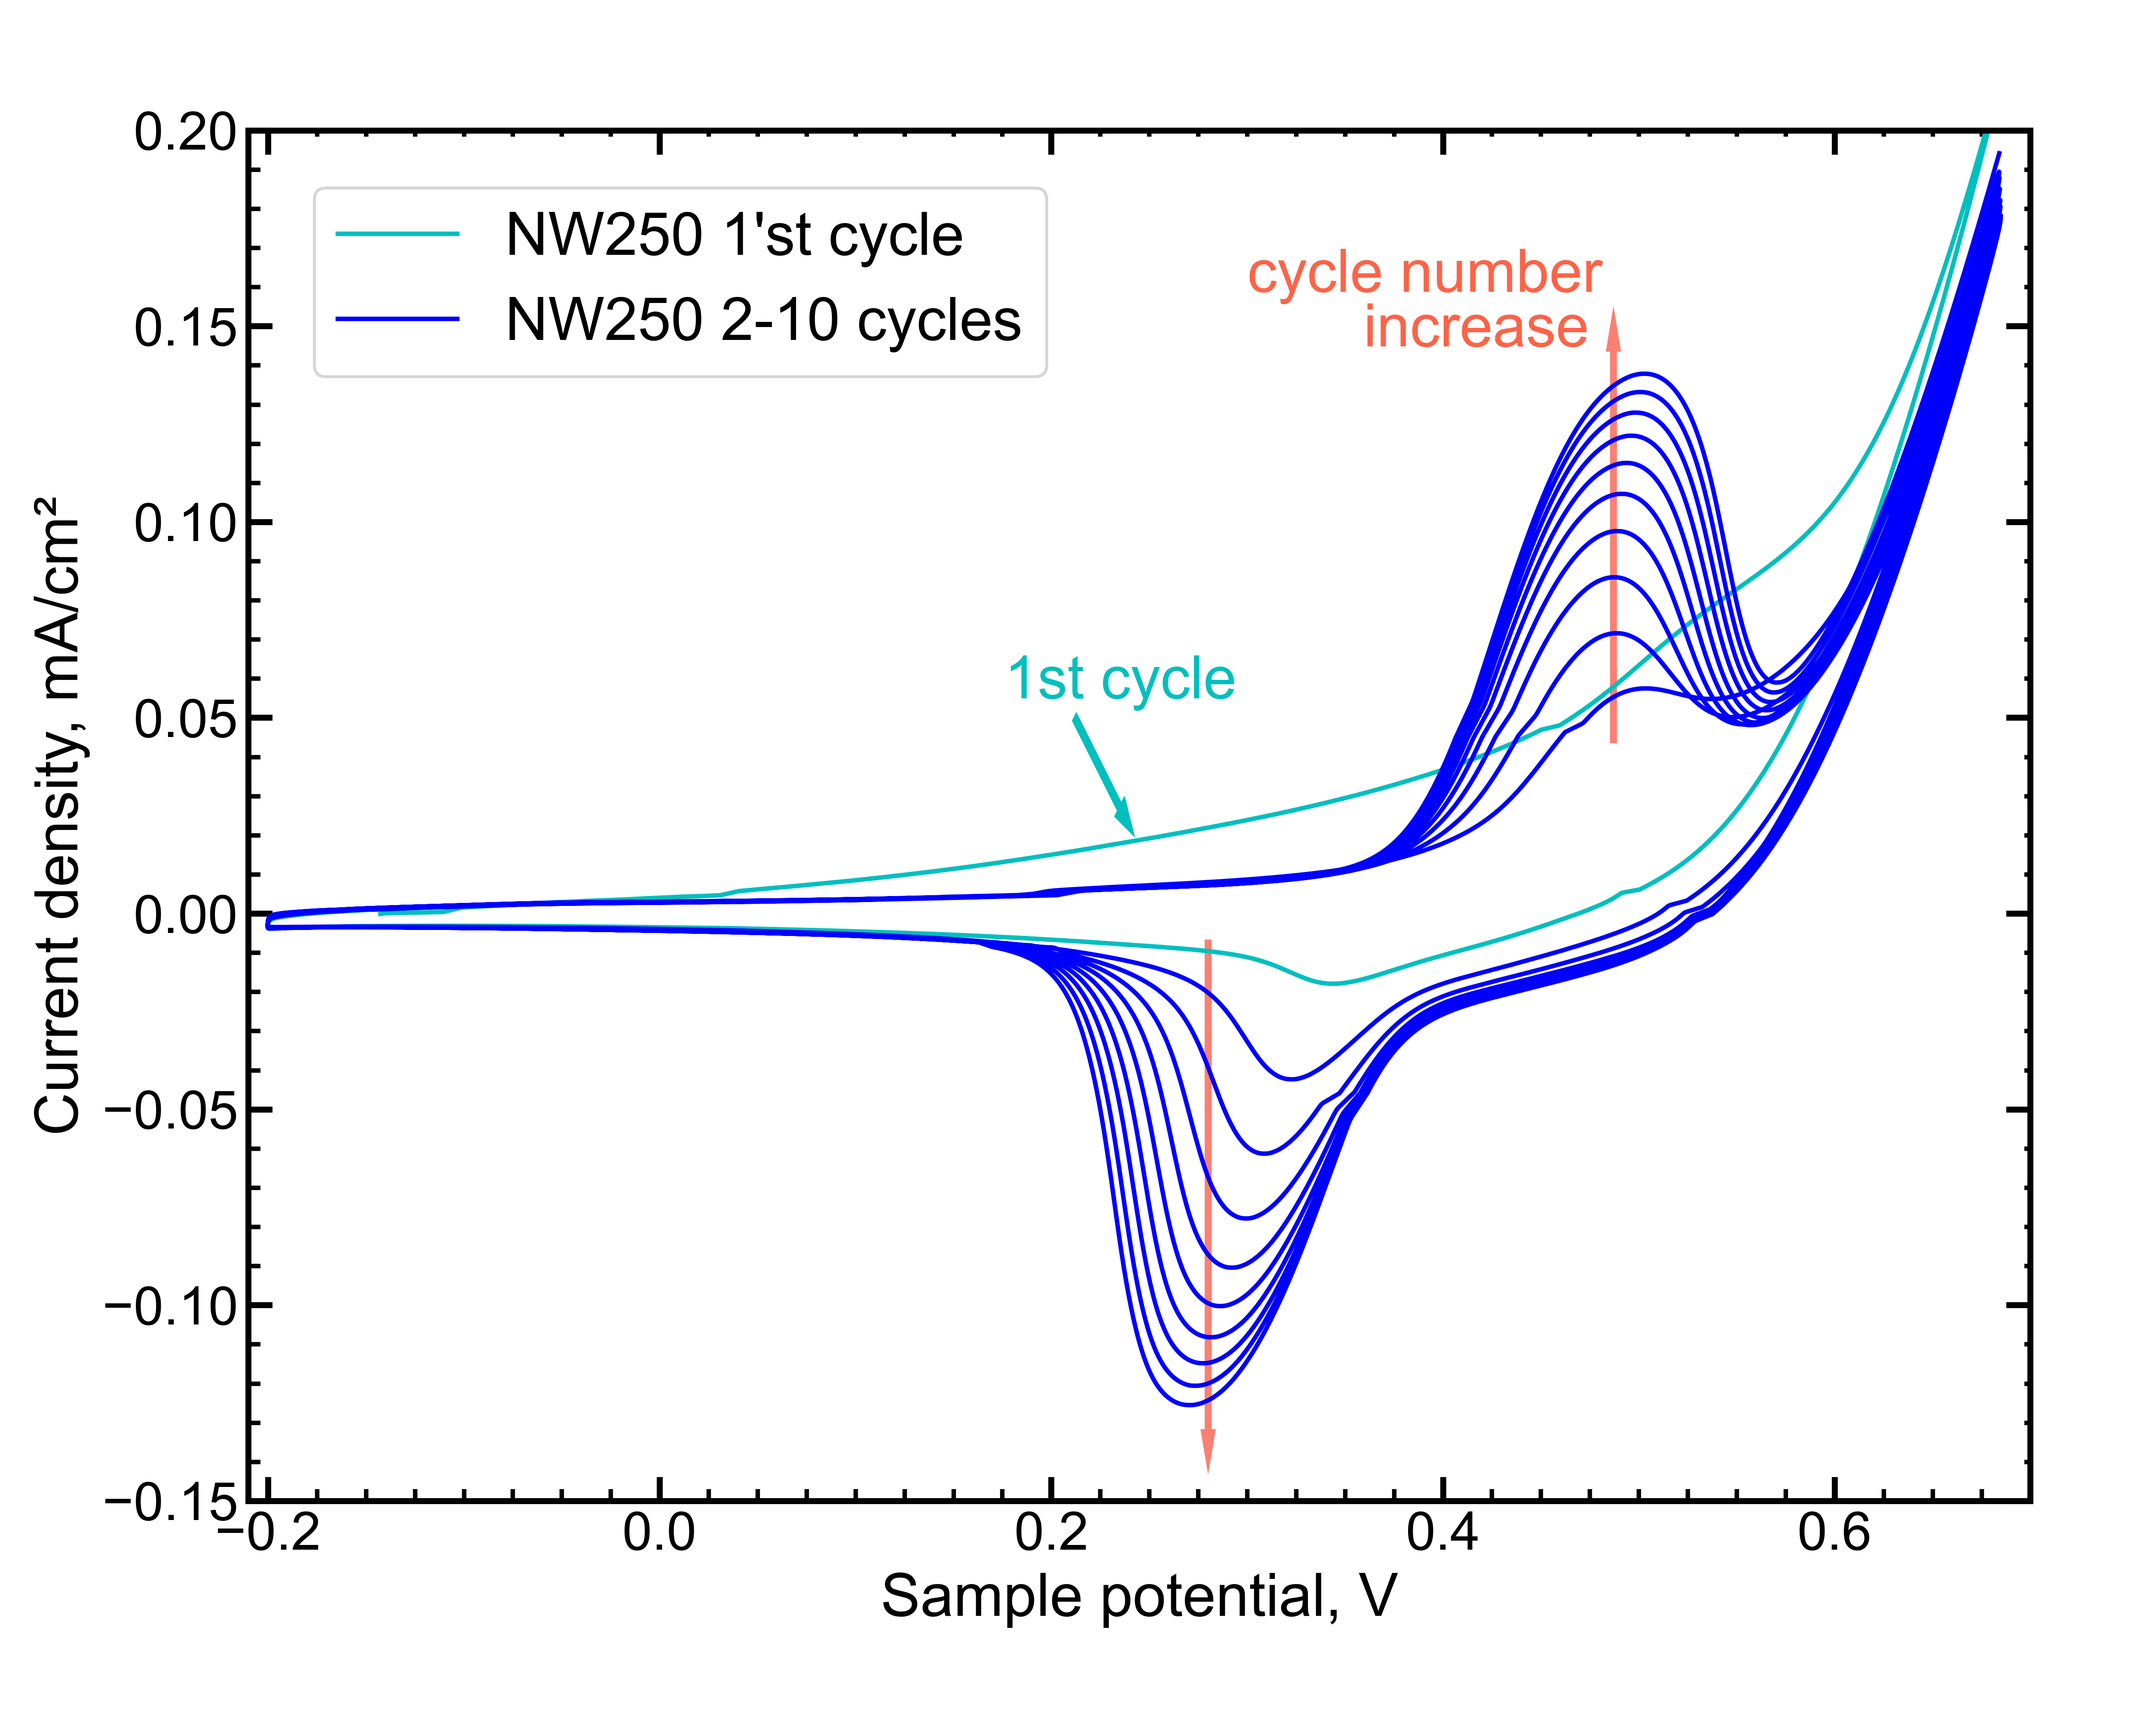
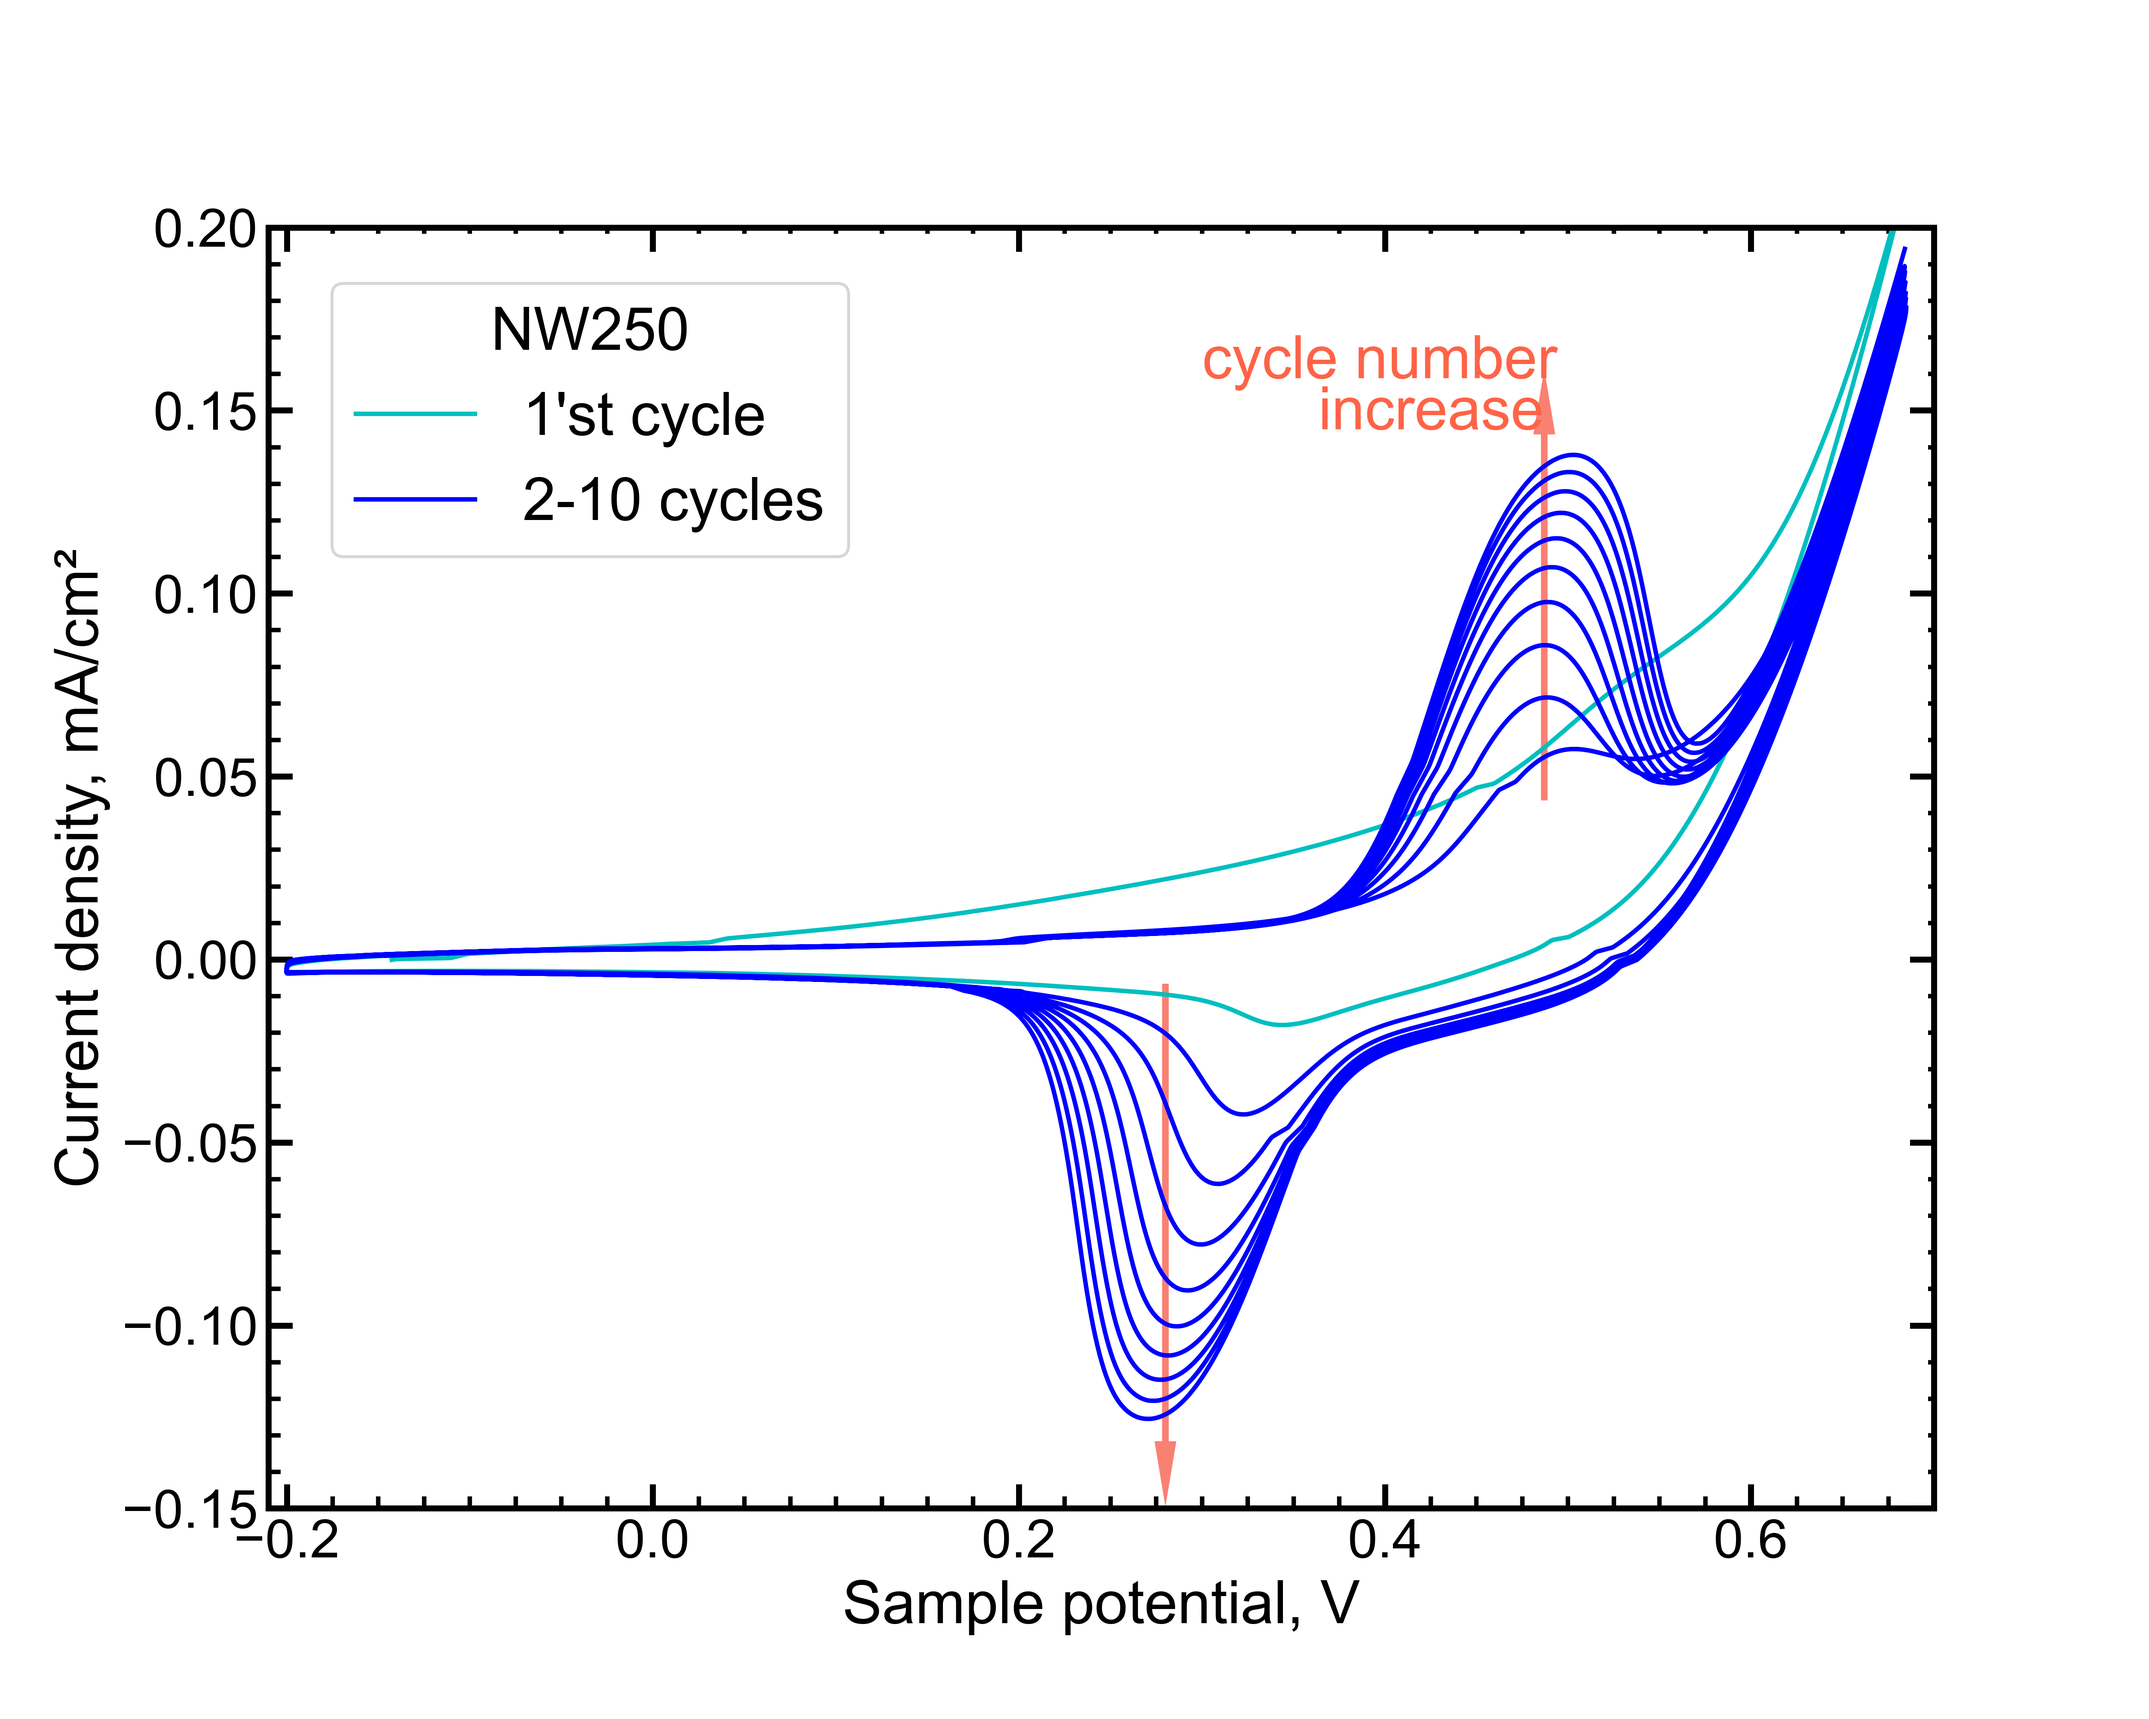
поправил легенду, убрал ненужную стрелку, поправил размеры указателей стрелок

diff --git a/Скрипты/CV-099-first10.py b/Скрипты/CV-099-first10.py
@@ -17,16 +17,18 @@ per_cycle = 1800
 s1 = per_cycle * 1
 s2 = per_cycle * 11
 current = list(map(lambda x: 1000 * x / 5, sample.current))
-line1, = ax.plot(sample.voltage[:s1], current[:s1], 'c-', label="NW700 1'st cycle")
-line2, = ax.plot(sample.voltage[s1:], current[s1:], 'b-', label="NW700 2-10 cycles")
+line1, = ax.plot(sample.voltage[:s1], current[:s1], 'c-', label="1'st cycle")
+line2, = ax.plot(sample.voltage[s1:], current[s1:], 'b-', label="2-10 cycles")
 
-arrow = ax.arrow(0.487, 0.2, 0, 0.35, width=0.002, color="salmon")
-arrow2 = ax.arrow(0.280, -0.007, 0, -0.47, width=0.002, color="salmon")
+# Изменение параметров стрелок
+arrow = ax.arrow(0.487, 0.2, 0, 0.35, width=0.002, head_length=0.05, head_width=0.01, color="salmon")
+arrow2 = ax.arrow(0.280, -0.007, 0, -0.44, width=0.002, head_length=0.05, head_width=0.01, color="salmon")
+
 plt.annotate("cycle number", (0.3, 0.57), (0.3, 0.57), color="tomato", fontsize=20)
 plt.annotate("      increase", (0.3, 0.57), (0.3, 0.52), color="tomato", fontsize=20)
 
-arrow3 = ax.arrow(0.212, 0.14, 0.023, -0.023, width=0.002, color="c")
-plt.annotate("1st cycle", (0.176, 0.15), (0.176, 0.15), color="c", fontsize=20)
+# arrow3 = ax.arrow(0.212, 0.14, 0.023, -0.023, width=0.002, color="c")
+# plt.annotate("1st cycle", (0.176, 0.15), (0.176, 0.15), color="c", fontsize=20)
 
 ax.set_aspect(0.5)
 #ax.set_title("Sample 099")
@@ -41,8 +43,10 @@ for spine in ax.spines.values():
 # Увеличение толщины тиков
 ax.tick_params(axis="both", direction="in", length=8, labelsize=18, width=2)
 
-# Добавление легенды с небольшим смещением от верхнего левого угла
-ax.legend(fontsize='20', loc='upper left', bbox_to_anchor=(0.02, 0.98))
+# Добавление легенды с заголовком
+legend = ax.legend(fontsize='20', loc='upper left', bbox_to_anchor=(0.02, 0.98))
+plt.setp(legend.get_title(), fontsize='20', color='black')
+legend.set_title("NW700")
 
 ax2 = ax.secondary_yaxis("right")
 ax2.tick_params(axis="both", direction="in", length=8, labelcolor="white", width=2)

diff --git a/Скрипты/CV-091-first10.py b/Скрипты/CV-091-first10.py
@@ -17,16 +17,16 @@ per_cycle = 1800
 s1 = per_cycle * 1
 s2 = per_cycle * 11
 current = list(map(lambda x: 1000 * x / 5, sample.current))
-line1, = ax.plot(sample.voltage[:s1], current[:s1], 'c-', label="NW250 1'st cycle")
-line2, = ax.plot(sample.voltage[s1:], current[s1:], 'b-', label="NW250 2-10 cycles")
+line1, = ax.plot(sample.voltage[:s1], current[:s1], 'c-', label="1'st cycle")
+line2, = ax.plot(sample.voltage[s1:], current[s1:], 'b-', label="2-10 cycles")
 
-arrow = ax.arrow(0.487, 0.0439, 0, 0.1, width=0.002, color="salmon")
-arrow2 = ax.arrow(0.280, -0.007, 0, -0.125, width=0.002, color="salmon")
+arrow = ax.arrow(0.487, 0.0439, 0, 0.1, width=0.002, head_length=0.015, head_width=0.01, color="salmon")
+arrow2 = ax.arrow(0.280, -0.007, 0, -0.125, width=0.002, head_length=0.015, head_width=0.01, color="salmon")
 plt.annotate("cycle number", (0.3, 0.1488), (0.3, 0.1588), color="tomato", fontsize=20)
 plt.annotate("       increase", (0.3, 0.1488), (0.3, 0.1449), color="tomato", fontsize=20)
 
-arrow3 = ax.arrow(0.212, 0.05, 0.023, -0.023, width=0.002, color="c")
-plt.annotate("1st cycle", (0.176, 0.055), (0.176, 0.055), color="c", fontsize=20)
+# arrow3 = ax.arrow(0.212, 0.05, 0.023, -0.023, width=0.002, color="c")
+# plt.annotate("1st cycle", (0.176, 0.055), (0.176, 0.055), color="c", fontsize=20)
 
 ax.set_aspect(2)
 #ax.set_title("Sample 091")
@@ -41,8 +41,10 @@ for spine in ax.spines.values():
 # Увеличение толщины тиков
 ax.tick_params(axis="both", direction="in", length=8, labelsize=18, width=2)
 
-# Добавление легенды с небольшим смещением от верхнего левого угла
-ax.legend(fontsize='20', loc='upper left', bbox_to_anchor=(0.02, 0.98))
+# Добавление легенды с заголовком
+legend = ax.legend(fontsize='20', loc='upper left', bbox_to_anchor=(0.02, 0.98))
+plt.setp(legend.get_title(), fontsize='20', color='black')
+legend.set_title("NW250")
 
 ax2 = ax.secondary_yaxis("right")
 ax2.tick_params(axis="both", direction="in", length=8, labelcolor="white", width=2)
